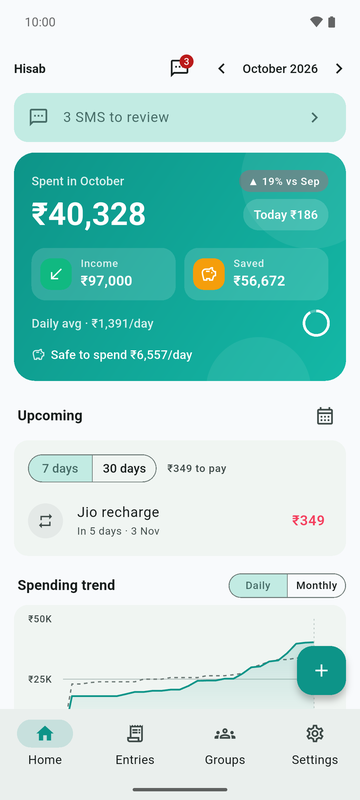
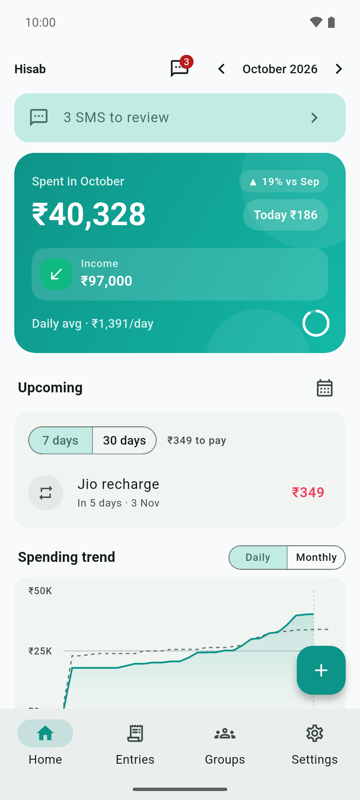
docs(readme): retake dashboard and budgets screenshots without the saved tile

diff --git a/README.md b/README.md
@@ -65,7 +65,7 @@
 - 🗂 **Grouped account picker** so the right account is one tap away.
 
 ### 🎯 Budgets, categories & projects
-- 📉 **Budgets** overall or per category, with a pace marker and what's left for the days remaining.
+- 📉 **Budgets** overall or per category, with a pace marker, what's left for the days remaining and, for the overall budget, a safe-to-spend amount per day.
 - 📅 **Salary-month cycle**: start your month on payday.
 - 🏷 **18 expense groups and 100+ subcategories**, plus income and transfer categories, all editable, and **category packs** you can add in a tap.
 - 🏗 **Projects** for a car, construction, renovation, trip or wedding, with templates and custom fields to track their total cost.
@@ -75,7 +75,7 @@
 - 📺 **Subscriptions** with monthly and yearly totals and renewal dates.
 
 ### 📈 Dashboard & reports
-- 💰 **This month at a glance**: spent, income, saved, daily average and the change against last month.
+- 💰 **This month at a glance**: what you spent and earned, the daily average and the change against last month. No verdicts: budgets live in their own card.
 - 📈 **Spending trend** (daily or monthly) and a **category donut** with shares.
 - 🧩 Cards for budgets, accounts, groups, projects and recent entries.
 
